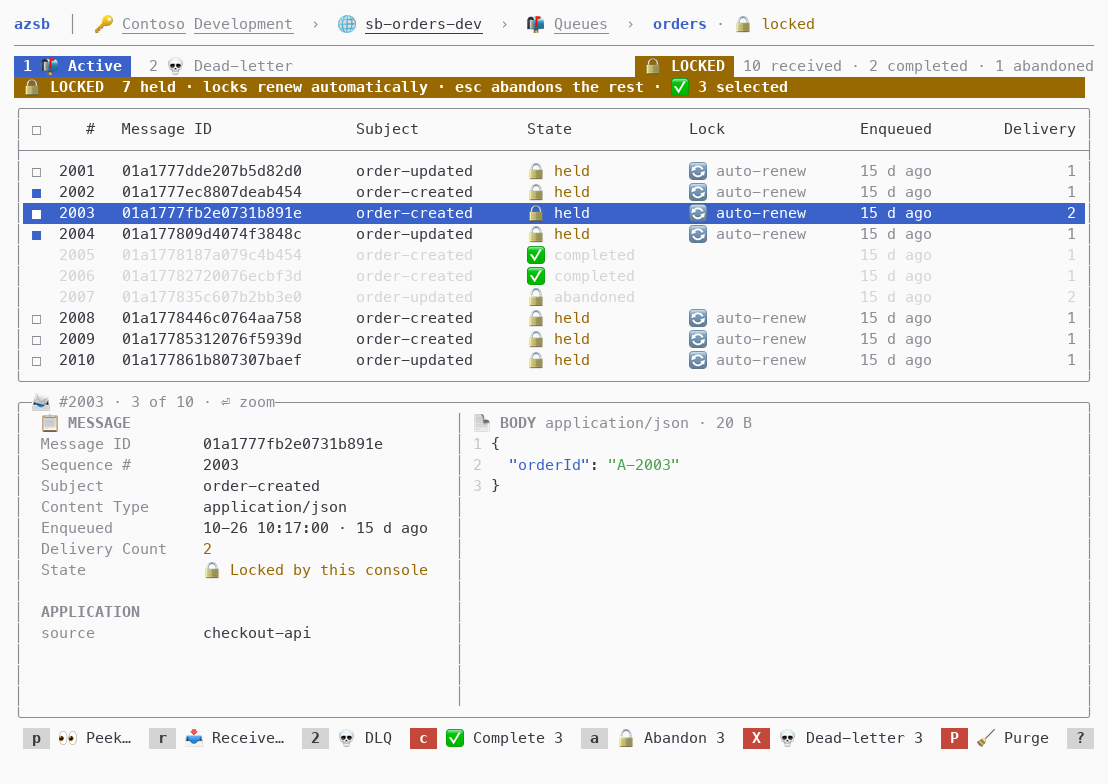
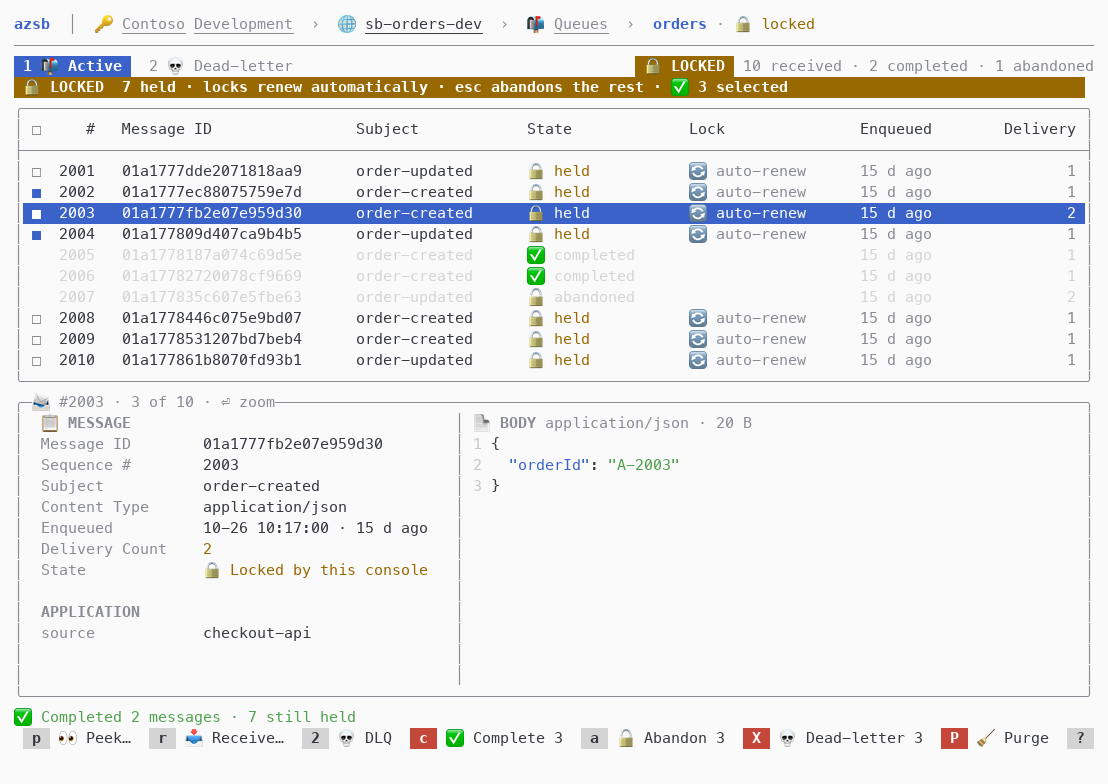
Report locked-mode settling in a status line (#180)
![PeekLock](https://github.com/zidad/azure-servicebus-console/blob/redesign/locked-status/docs/screenshots/peeklock.png?raw=true)

- Complete, abandon and dead-letter in Locked mode report in one line
under the list, no `OperationDialog`
- Failures in that line in the danger color, still recorded in the
activity log
- Detail page returns to the list after settling

diff --git a/tests/ServiceBusConsole.Tests/LockedBrowserTests.cs b/tests/ServiceBusConsole.Tests/LockedBrowserTests.cs
@@ -1,4 +1,5 @@
 using System.Text;
+using Microsoft.Extensions.DependencyInjection;
 using RazorConsole.Testing;
 using ServiceBusConsole.Components;
 using Spectre.Console;
@@ -45,13 +46,13 @@ public sealed class LockedBrowserTests
         return (app, terminal);
     }
 
-    private static async Task ClickOkAsync(HeadlessTerminal terminal, string result)
+    /// <summary>Settling reports in one line under the list; no dialog to dismiss.</summary>
+    private static async Task<HeadlessTerminalFrame> WaitForStatusAsync(HeadlessTerminal terminal, string status)
     {
-        var frame = await terminal.WaitUntilAsync(f => f.ContainsText(result) && f.ContainsText("⏎  OK"), AppHarness.Timeout, cancellationToken: Ct);
-        var y = Enumerable.Range(0, frame.Height).First(y => frame.GetLine(y).Contains("⏎  OK"));
-        await terminal.ClickAsync(frame.GetLine(y).IndexOf("⏎  OK", StringComparison.Ordinal) + 2, y, Ct);
-        await terminal.WaitUntilAsync(f => !f.ContainsText(result), AppHarness.Timeout, cancellationToken: Ct);
+        var frame = await terminal.WaitForTextAsync(status, AppHarness.Timeout, Ct);
+        frame.ContainsText("⏎  OK").ShouldBeFalse(frame.ScreenText);
         await AppHarness.WaitForTableFocusAsync(terminal);
+        return frame;
     }
 
     /// <summary>The counts beside the tabs, and the strip's held count.</summary>
@@ -90,7 +91,10 @@ public sealed class LockedBrowserTests
         await terminal.SendKeyAsync(ConsoleKey.C, 'c', cancellationToken: Ct);
         await terminal.WaitForTextAsync("Complete message #1?", AppHarness.Timeout, Ct);
         await terminal.SendKeyAsync(ConsoleKey.Y, 'y', cancellationToken: Ct);
-        await ClickOkAsync(terminal, "Completed 1 of 1.");
+        var status = await WaitForStatusAsync(terminal, "✅ Completed message #1 · 2 still held");
+        Foreground(status, "✅ Completed message #1", "Completed").ShouldBe(Theme.Success);
+        terminal.Services.GetRequiredService<ActivityLog>().Entries
+            .ShouldContain(e => e.Kind == ActivityKind.Operation && e.Text == "Completing message #1: Completed message #1");
 
         var frame = await WaitForCountsAsync(terminal, "3 received · 1 completed", 2);
         frame.GetLine(Row(frame, "first")).ShouldContain("✅ completed");
@@ -121,12 +125,12 @@ public sealed class LockedBrowserTests
         await using var _ = terminal;
 
         await terminal.SendKeyAsync(ConsoleKey.A, 'a', cancellationToken: Ct);
-        await ClickOkAsync(terminal, "Abandoned 1 of 1.");
+        await WaitForStatusAsync(terminal, "✅ Abandoned message #1 · 2 still held");
         await terminal.SendKeyAsync(ConsoleKey.DownArrow, '\0', cancellationToken: Ct);
         await terminal.SendKeyAsync(ConsoleKey.X, 'X', ConsoleModifiers.Shift, Ct);
         await terminal.WaitForTextAsync("Move message #2 to the dead-letter queue?", AppHarness.Timeout, Ct);
         await terminal.SendKeyAsync(ConsoleKey.Y, 'y', cancellationToken: Ct);
-        await ClickOkAsync(terminal, "Dead-lettered 1 of 1.");
+        await WaitForStatusAsync(terminal, "✅ Dead-lettered message #2 · 1 still held");
         app.Messages.Received.ShouldNotBeNull().LoseLock(3);
 
         var frame = await WaitForCountsAsync(terminal, "3 received · 1 abandoned · 1 dead-lettered", 0);
@@ -143,7 +147,7 @@ public sealed class LockedBrowserTests
         var (app, terminal) = await ReceiveOrdersAsync();
         await using var _ = terminal;
         await terminal.SendKeyAsync(ConsoleKey.A, 'a', cancellationToken: Ct);
-        await ClickOkAsync(terminal, "Abandoned 1 of 1.");
+        await WaitForStatusAsync(terminal, "✅ Abandoned message #1 · 2 still held");
 
         var browserFocus = terminal.FocusKey;
         await terminal.SendKeyAsync(ConsoleKey.Enter, '\r', cancellationToken: Ct);
@@ -160,10 +164,34 @@ public sealed class LockedBrowserTests
         await terminal.SendKeyAsync(ConsoleKey.C, 'c', cancellationToken: Ct);
         await terminal.WaitForTextAsync("Complete message #2?", AppHarness.Timeout, Ct);
         await terminal.SendKeyAsync(ConsoleKey.Y, 'y', cancellationToken: Ct);
-        await ClickOkAsync(terminal, "Completed 1 of 1.");
+        await WaitForStatusAsync(terminal, "✅ Completed message #2 · 1 still held");
 
         frame = await WaitForCountsAsync(terminal, "3 received · 1 completed · 1 abandoned", 1);
         frame.GetLine(Row(frame, "second")).ShouldContain("✅ completed");
         app.Messages.Completed.ShouldBe([2L]);
+    }
+
+    [Test]
+    public async Task FailedSettle_ShowsInTheStatusInTheDangerColor_AndInTheActivityLog()
+    {
+        var (app, terminal) = await ReceiveOrdersAsync();
+        await using var _ = terminal;
+        app.Messages.FailSettle.Add(2);
+
+        await terminal.SendKeyAsync(ConsoleKey.A, '\u0001', ConsoleModifiers.Control, Ct);
+        await terminal.WaitForTextAsync("3 selected", AppHarness.Timeout, Ct);
+        await terminal.SendKeyAsync(ConsoleKey.C, 'c', cancellationToken: Ct);
+        await terminal.WaitForTextAsync("Complete 3 messages?", AppHarness.Timeout, Ct);
+        await terminal.SendKeyAsync(ConsoleKey.Y, 'y', cancellationToken: Ct);
+
+        const string status = "❌ Completed 2 of 3. Failed messages stay selected: #2 Service Bus is busy · 1 still held";
+        var frame = await WaitForStatusAsync(terminal, status);
+        Foreground(frame, status, "Completed").ShouldBe(Theme.Danger);
+        frame = await WaitForCountsAsync(terminal, "3 received · 2 completed", 1);
+        frame.ContainsText("1 selected").ShouldBeTrue(frame.ScreenText);
+        frame.GetLine(Row(frame, "second")).ShouldContain("🔒 held");
+        app.Messages.Completed.Order().ShouldBe([1L, 3L]);
+        terminal.Services.GetRequiredService<ActivityLog>().Entries
+            .ShouldContain(e => e.Kind == ActivityKind.Error && e.Text.StartsWith("Completing 3 messages: Completed 2 of 3.", StringComparison.Ordinal));
     }
 }

diff --git a/src/ServiceBusConsole/Messaging/MessageBrowser.cs b/src/ServiceBusConsole/Messaging/MessageBrowser.cs
@@ -27,6 +27,9 @@ public sealed class MessageBrowser(MessageSource source, IServiceBusNamespace ns
     /// <summary>The batch operation in progress or finished (until <see cref="Dismiss"/>), for the progress dialog; null when idle.</summary>
     public OperationProgress? Operation { get; private set; }
 
+    /// <summary>The last complete, abandon or dead-letter, for the status line under the list; null after a new load.</summary>
+    public OperationProgress? Settled { get; private set; }
+
     public event Action? Changed;
 
     /// <summary>A load or batch operation ended without throwing: finished with a result, or (a load) done or cancelled.</summary>
@@ -465,6 +468,7 @@ public sealed class MessageBrowser(MessageSource source, IServiceBusNamespace ns
         Messages = messages;
         Mode = mode;
         _settled.Clear();
+        Settled = null;
         Selected.Clear();
         Cursor = 0;
         Changed?.Invoke();
@@ -494,11 +498,12 @@ public sealed class MessageBrowser(MessageSource source, IServiceBusNamespace ns
         }
     }
 
-    // Settled rows stay in the list, marked; failed ones stay selected.
+    // Settled rows stay in the list, marked; failed ones stay selected. Reports in the status line, not a dialog.
     private Task SettleAsync(string title, string stepName, string pastVerb, LockedState settledAs, IReadOnlyList<MessageInfo> targets,
         Func<ILockedMessages, MessageInfo, CancellationToken, Task> settle) =>
-        RunAsync(new(title, [new(stepName, targets.Count)]), async op =>
+        RunAsync(new(title, [new(stepName, targets.Count)], modal: false), async op =>
         {
+            Settled = null;
             var locked = _locked ?? throw new InvalidOperationException(MessagingStrings.MessageBrowser_NoLockedMessages);
             var failures = new ConcurrentBag<Failure>();
             var done = await RunParallelAsync(Start(op, 0), targets, async (m, ct) =>
@@ -513,7 +518,9 @@ public sealed class MessageBrowser(MessageSource source, IServiceBusNamespace ns
                 catch (Exception ex) { failures.Add(new(m, Describe(ex))); return false; }
             });
             UpdateSelection(targets, failures.Select(f => f.Message));
-            Report(op, pastVerb, targets.Count, done.Count, [.. failures]);
+            if (failures.IsEmpty) op.Finish(MessagingStrings.FormatMessageBrowser_Settled(pastVerb, What(targets)), OperationOutcome.Succeeded);
+            else Report(op, pastVerb, targets.Count, done.Count, [.. failures]);
+            Settled = op;
         });
 
     private async Task<IReadOnlyList<MessageInfo>> RunParallelAsync(OperationStep step, IReadOnlyList<MessageInfo> items, Func<MessageInfo, CancellationToken, Task<bool>> op)

diff --git a/tests/ServiceBusConsole.Tests/Screenshots.cs b/tests/ServiceBusConsole.Tests/Screenshots.cs
@@ -177,20 +177,20 @@ public sealed class Screenshots
         await AppHarness.WaitForSettledAsync(terminal, f => f.ContainsText("10 received") && f.ContainsText("10 held"));
         await AppHarness.WaitForTableFocusAsync(terminal);
 
-        foreach (var _ in Enumerable.Range(0, 4)) await Key(terminal, ConsoleKey.DownArrow);
+        foreach (var _ in Enumerable.Range(0, 6)) await Key(terminal, ConsoleKey.DownArrow);
+        await Key(terminal, ConsoleKey.A, 'a');
+        await WaitForStatusAsync(terminal, "Abandoned message #2007");
+        await Key(terminal, ConsoleKey.UpArrow);
         await Key(terminal, ConsoleKey.Spacebar, ' ');
-        await Key(terminal, ConsoleKey.DownArrow);
+        await Key(terminal, ConsoleKey.UpArrow);
         await Key(terminal, ConsoleKey.Spacebar, ' ');
         await terminal.WaitForTextAsync("2 selected", AppHarness.Timeout, Ct);
         await Key(terminal, ConsoleKey.C, 'c');
         await terminal.WaitForTextAsync("Complete 2 messages?", AppHarness.Timeout, Ct);
         await Key(terminal, ConsoleKey.Y, 'y');
-        await DismissAsync(terminal, "Completed 2 of 2.");
-        await Key(terminal, ConsoleKey.DownArrow);
-        await Key(terminal, ConsoleKey.A, 'a');
-        await DismissAsync(terminal, "Abandoned 1 of 1.");
+        await WaitForStatusAsync(terminal, "Completed 2 messages");
 
-        foreach (var _ in Enumerable.Range(0, 5)) await Key(terminal, ConsoleKey.UpArrow);
+        foreach (var _ in Enumerable.Range(0, 3)) await Key(terminal, ConsoleKey.UpArrow);
         foreach (var _ in Enumerable.Range(0, 3))
         {
             await Key(terminal, ConsoleKey.Spacebar, ' ');
@@ -202,11 +202,9 @@ public sealed class Screenshots
         await Save(terminal, dir, "peeklock");
     }
 
-    private static async Task DismissAsync(HeadlessTerminal terminal, string result)
+    private static async Task WaitForStatusAsync(HeadlessTerminal terminal, string status)
     {
-        await terminal.WaitForTextAsync(result, AppHarness.Timeout, Ct);
-        await AppHarness.ClickTextAsync(terminal, "⏎  OK");
-        await terminal.WaitUntilAsync(f => !f.ContainsText(result), AppHarness.Timeout, cancellationToken: Ct);
+        await terminal.WaitForTextAsync(status, AppHarness.Timeout, Ct);
         await AppHarness.WaitForTableFocusAsync(terminal);
     }
 

diff --git a/tests/ServiceBusConsole.Tests/Fakes.cs b/tests/ServiceBusConsole.Tests/Fakes.cs
@@ -235,6 +235,9 @@ public sealed class FakeMessageService : IMessageService
     public System.Collections.Concurrent.ConcurrentQueue<long> Abandoned { get; } = [];
     public System.Collections.Concurrent.ConcurrentQueue<long> DeadLettered { get; } = [];
 
+    /// <summary>Sequence numbers whose complete, abandon or dead-letter fails while they stay held.</summary>
+    public HashSet<long> FailSettle { get; } = [];
+
     /// <summary>The last PeekLock receive, to lose a lock in a test.</summary>
     public FakeLockedMessages? Received { get; private set; }
 
@@ -368,6 +371,7 @@ public sealed class FakeLockedMessages(FakeMessageService service, IEnumerable<M
 
     private void Settle(MessageInfo message)
     {
+        if (service.FailSettle.Contains(message.SequenceNumber)) throw new InvalidOperationException("Service Bus is busy");
         bool removed;
         lock (_held) removed = _held.Remove(message.SequenceNumber);
         if (!removed)

diff --git a/CLAUDE.md b/CLAUDE.md
@@ -185,5 +185,6 @@ Declare once per action and trigger via `@ref`:
 - *Receive (ReceiveAndDelete)* removes messages at once; *Requeue* resends them.
 - *Retry* (DLQ, `MessageBrowser.RetryAsync`): chunks of up to 100, in order, as they are held. With `IHasTransactions` (Standard, Premium) each chunk moves in one transaction (`ITransactionService.MoveAsync`: send the copies, complete the originals; a failure rolls back and the chunk stays held); without, copies are sent, then the originals completed (at least once). Peeked DLQ messages are locked first with `IMessageService.StartLocking`, which receives from the front and abandons what it passes.
 - Transactions use the namespace's own client: a dead-letter queue and its queue, or a subscription and its topic, are one top-level entity. Don't set `EnableCrossEntityTransactions`: it makes a client fail receives on every entity after the first
-- Batch operations end in `OperationDialog` with a result (failures included) until OK; navigate in its `OnDismiss`, not in `AsyncCommand.OnCompleted`.
+- Retry, Resend, Requeue and Purge end in `OperationDialog` with a result (failures included) until OK; navigate in its `OnDismiss`, not in `AsyncCommand.OnCompleted`.
+- Complete, abandon and dead-letter in Locked mode run without a dialog and report in a one-line status under the list (`MessageBrowser.Settled`; failures in the danger color), recorded through `Ended` like the rest; the detail page goes back to that list in their `OnCompleted`.
 - That scan is only allowed in a dead-letter queue (abandon there only bumps the delivery count). Never scan an active queue: abandon there can dead-letter unrelated messages.
